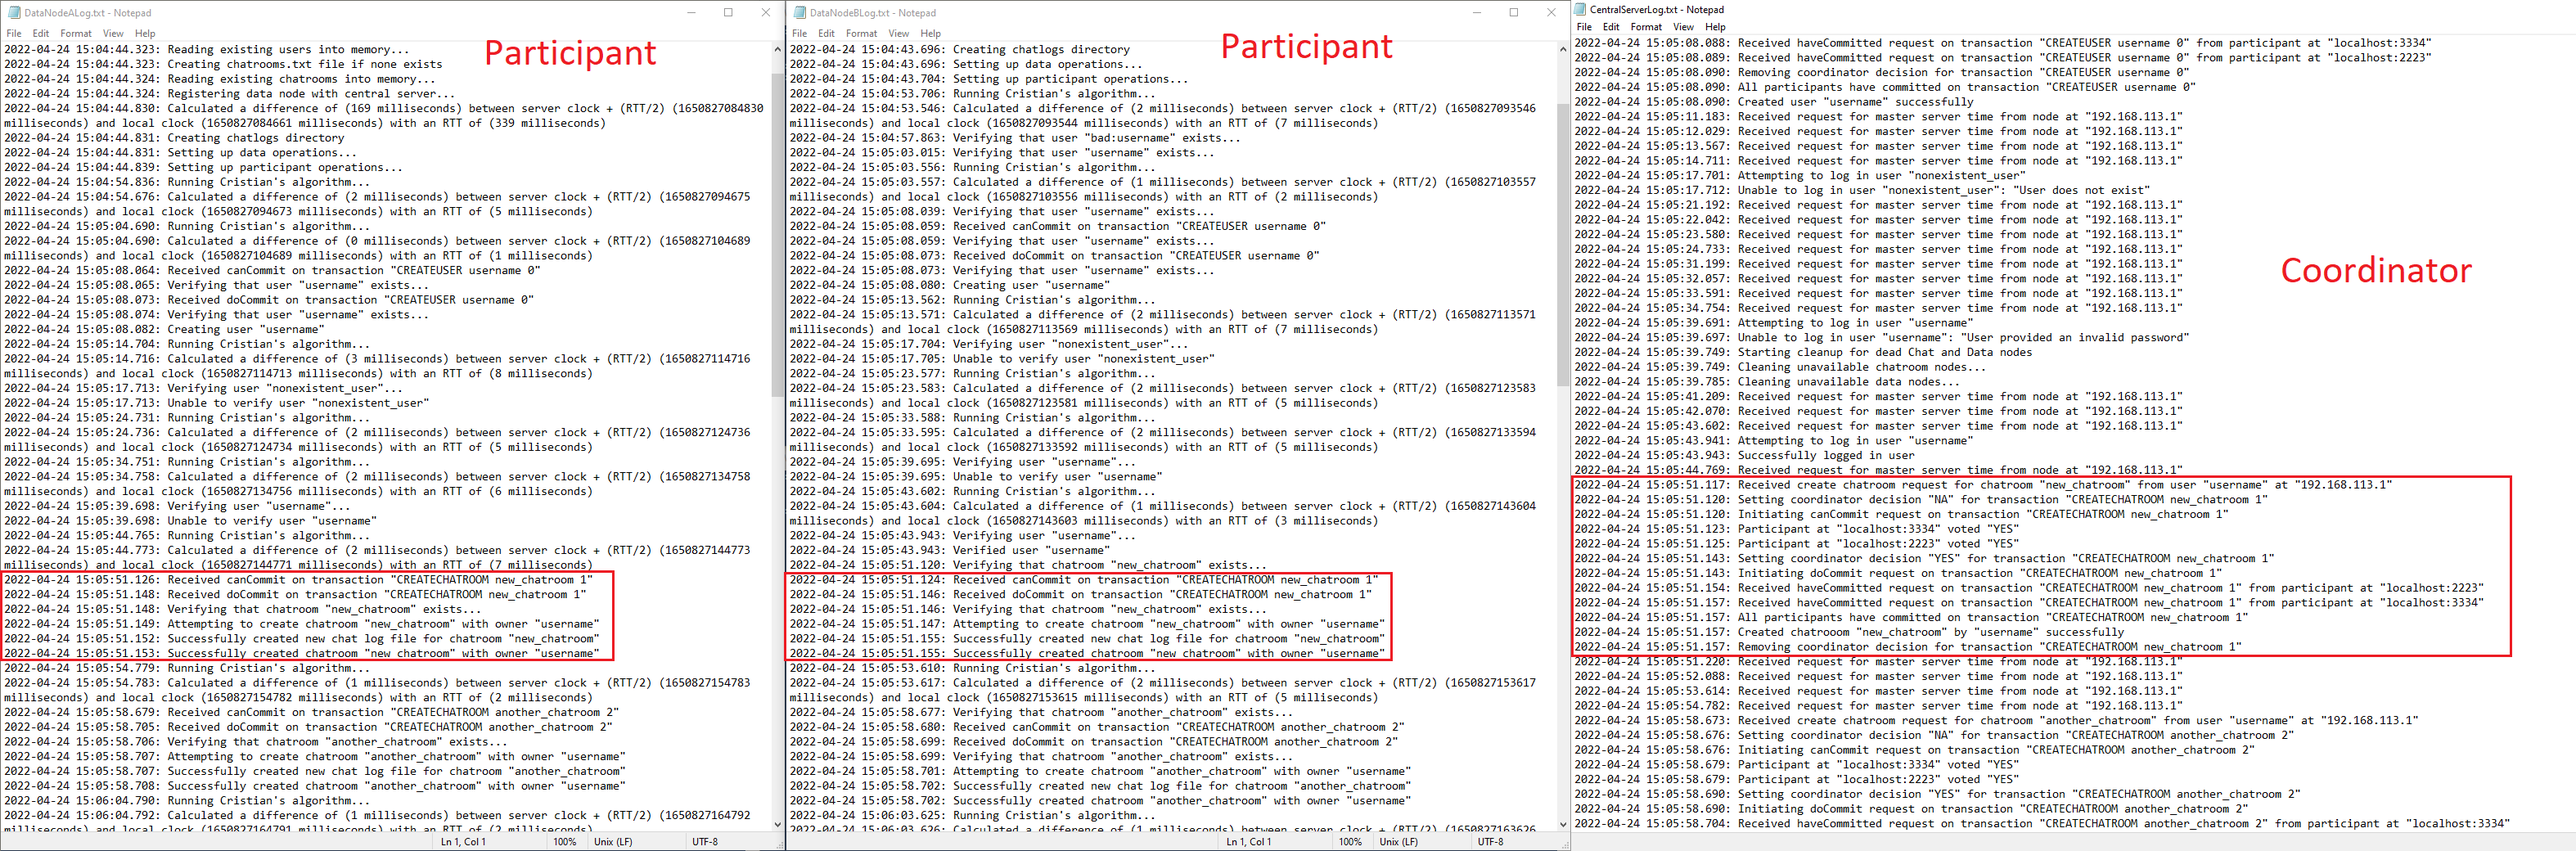
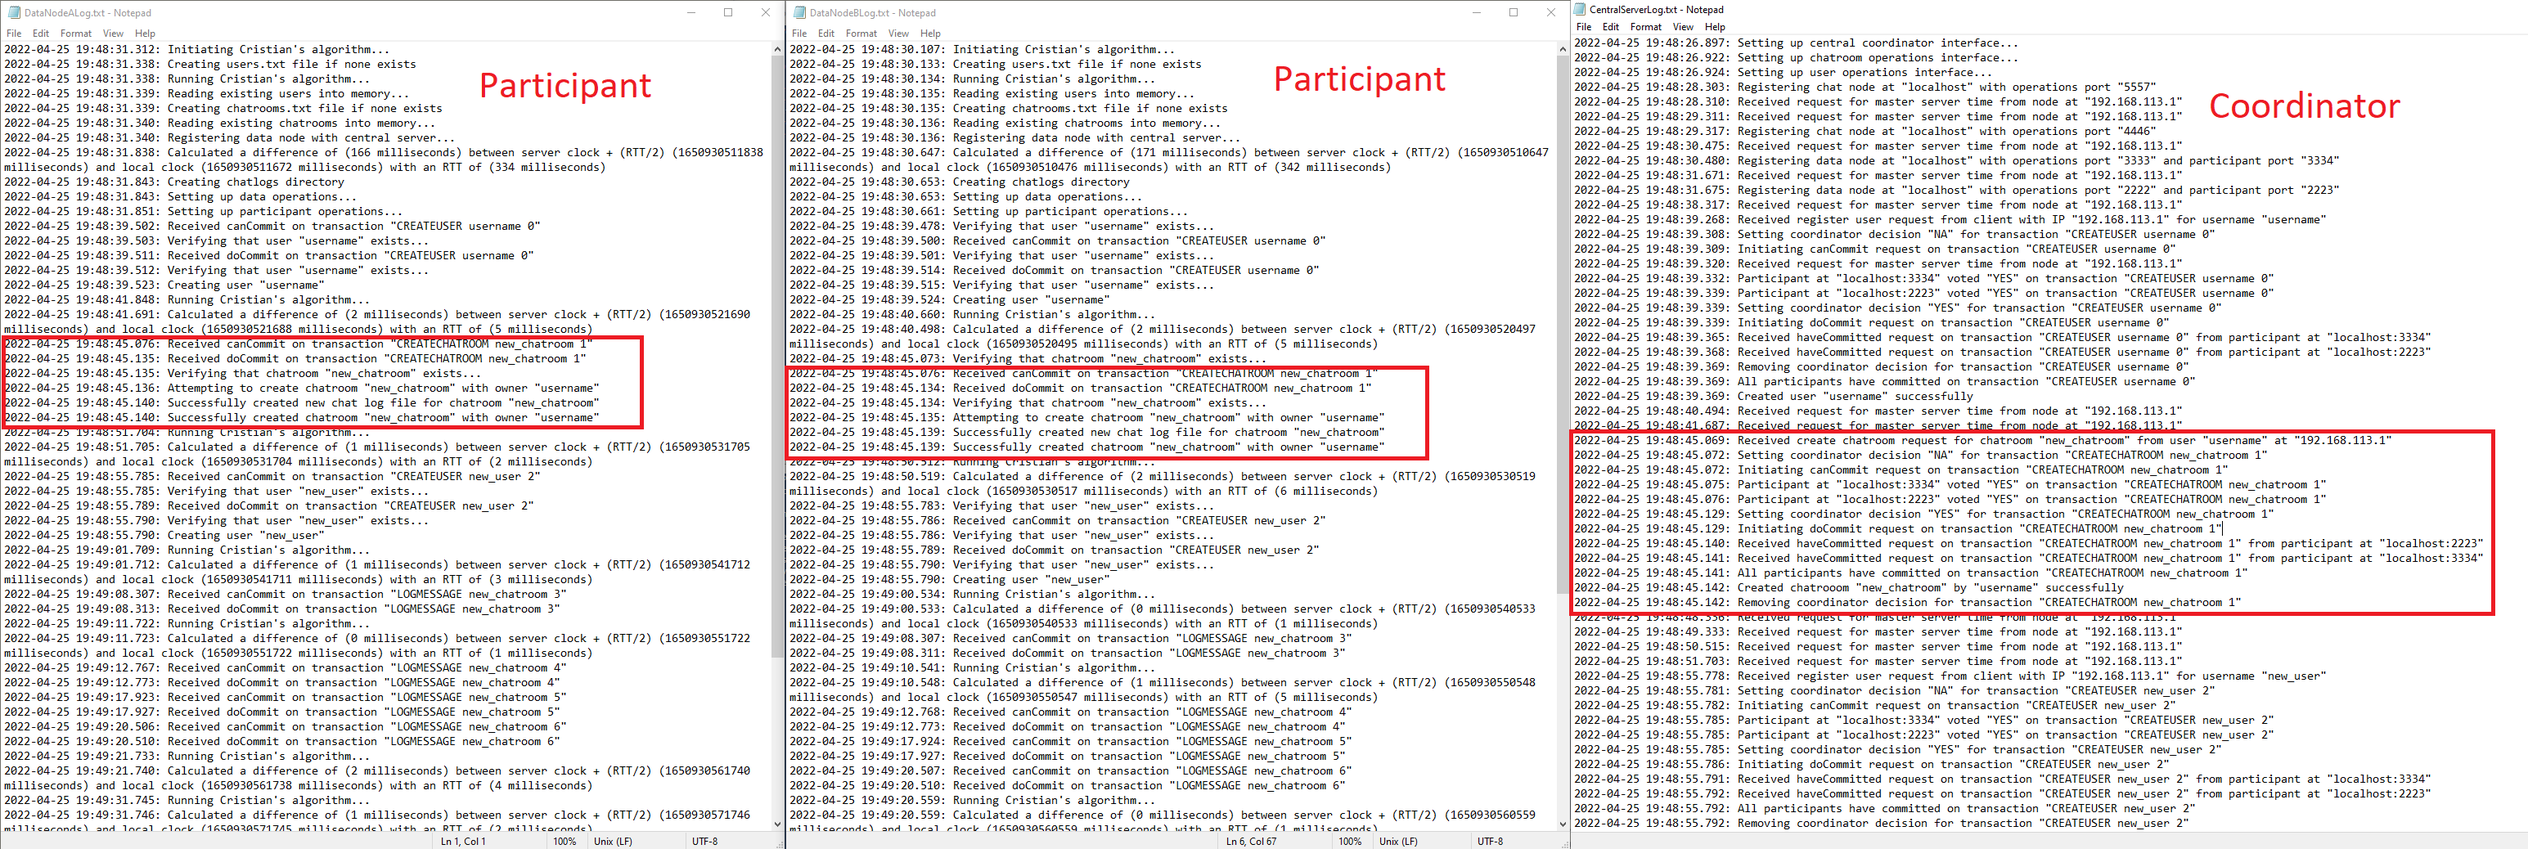
added functionality to handle when users are in chatroom that gets deleted, added additional logging on 2pc, added testing images to reflect new functionality

diff --git a/client/Chat.java b/client/Chat.java
@@ -30,6 +30,7 @@ class Chat extends JFrame implements ActionListener {
     private static RMIAccess<ICentralUserOperations> centralServer;
     private static final Object reestablishLock = new Object();
     private static Thread chatThread;
+    private static boolean isRunning;
 
     // default constructor
     public Chat(String username, String chatroomName, String hostname, int tcpPort, int rmiPort, RMIAccess<ICentralUserOperations> centralServer, Object chatWait){
@@ -40,6 +41,7 @@ class Chat extends JFrame implements ActionListener {
         Chat.rmiPort = rmiPort;
         Chat.centralServer = centralServer;
         Chat.chatWait = chatWait;
+        Chat.isRunning = true;
         Chat.chatThread = new Thread(new Runnable() {
             @Override
             public void run() {
@@ -235,6 +237,13 @@ class Chat extends JFrame implements ActionListener {
         // and publish to the chat server
         if (s.equals("submit")) {
 
+            // if the chatroom has been closed, inform client messages can't be sent, return without sending
+            // message
+            if (!Chat.isRunning) {
+                textDisplay.setText(textDisplay.getText() + "\nSystem >> The chatroom has been deleted; no more messages may be delivered");
+                return;
+            }
+
             // grab user text
             String message = textEntry.getText();
 
@@ -297,6 +306,14 @@ class Chat extends JFrame implements ActionListener {
                 try {
                     // receive only when information becomes available
                     while ((message = socketReader.readLine()) != null) {
+
+                        if (message.compareTo("\\c") == 0) {
+                            textDisplay.setText(textDisplay.getText() + "\nSystem >> The chatroom has been deleted; no more messages may be delivered");
+                            Chat.isRunning = false;
+                            socketReader.close();
+                            receiveSocket.close();
+                            return;
+                        }
 
                         Logger.writeMessageToLog(ThreadSafeStringFormatter.format(
                                 "Received message \"%s\" from chat server at \"%s:%d\"",

diff --git a/chatserver/Chatroom.java b/chatserver/Chatroom.java
@@ -83,6 +83,46 @@ public class Chatroom {
         }
     }
 
+    /**
+     * Closes the chatroom and informs connected clients the chatroom is no longer available
+     */
+    public void closeRoom() {
+
+        CristiansLogger.writeMessageToLog(ThreadSafeStringFormatter.format(
+                "Closing room \"%s\"",
+                this.roomName
+        ));
+
+        synchronized (socketMapLock) {
+            for (String user : socketMap.keySet()) {
+                try {
+                    Socket s = socketMap.get(user);
+                    // if socket is null, do no send
+                    if (s == null) {
+                        continue;
+                    }
+
+                    CristiansLogger.writeMessageToLog(ThreadSafeStringFormatter.format(
+                            "Sending close instruction to user \"%s\"",
+                            user
+                    ));
+
+                    // send \c termination string to client to indicate the chatroom is closed
+                    PrintWriter out = new PrintWriter(new OutputStreamWriter(s.getOutputStream()), true);
+                    out.println("\\c");
+                    // clean up resources
+                    out.close();
+                    s.close();
+                } catch (IOException e) {
+                    CristiansLogger.writeErrorToLog(ThreadSafeStringFormatter.format(
+                            "Unable to send close message to client \"%s\"",
+                            user
+                    ));
+                }
+            }
+        }
+    }
+
     public int getUserCount() {
         // retrieve the number of users currently subscribed to this chatroom
         // used for load balancing purposes

diff --git a/chatserver/ChatroomOperations.java b/chatserver/ChatroomOperations.java
@@ -70,6 +70,11 @@ public class ChatroomOperations extends UnicastRemoteObject implements IChatroom
 
         // remove the chatroom using the provided name from the room map using the provided chatroom name
         synchronized (roomMapLock) {
+            Chatroom r = roomMap.get(name);
+            if (r != null) {
+                // send message to clients that the room is closing
+                r.closeRoom();
+            }
             roomMap.remove(name);
         }
         return new Response(ResponseStatus.OK, "success");
